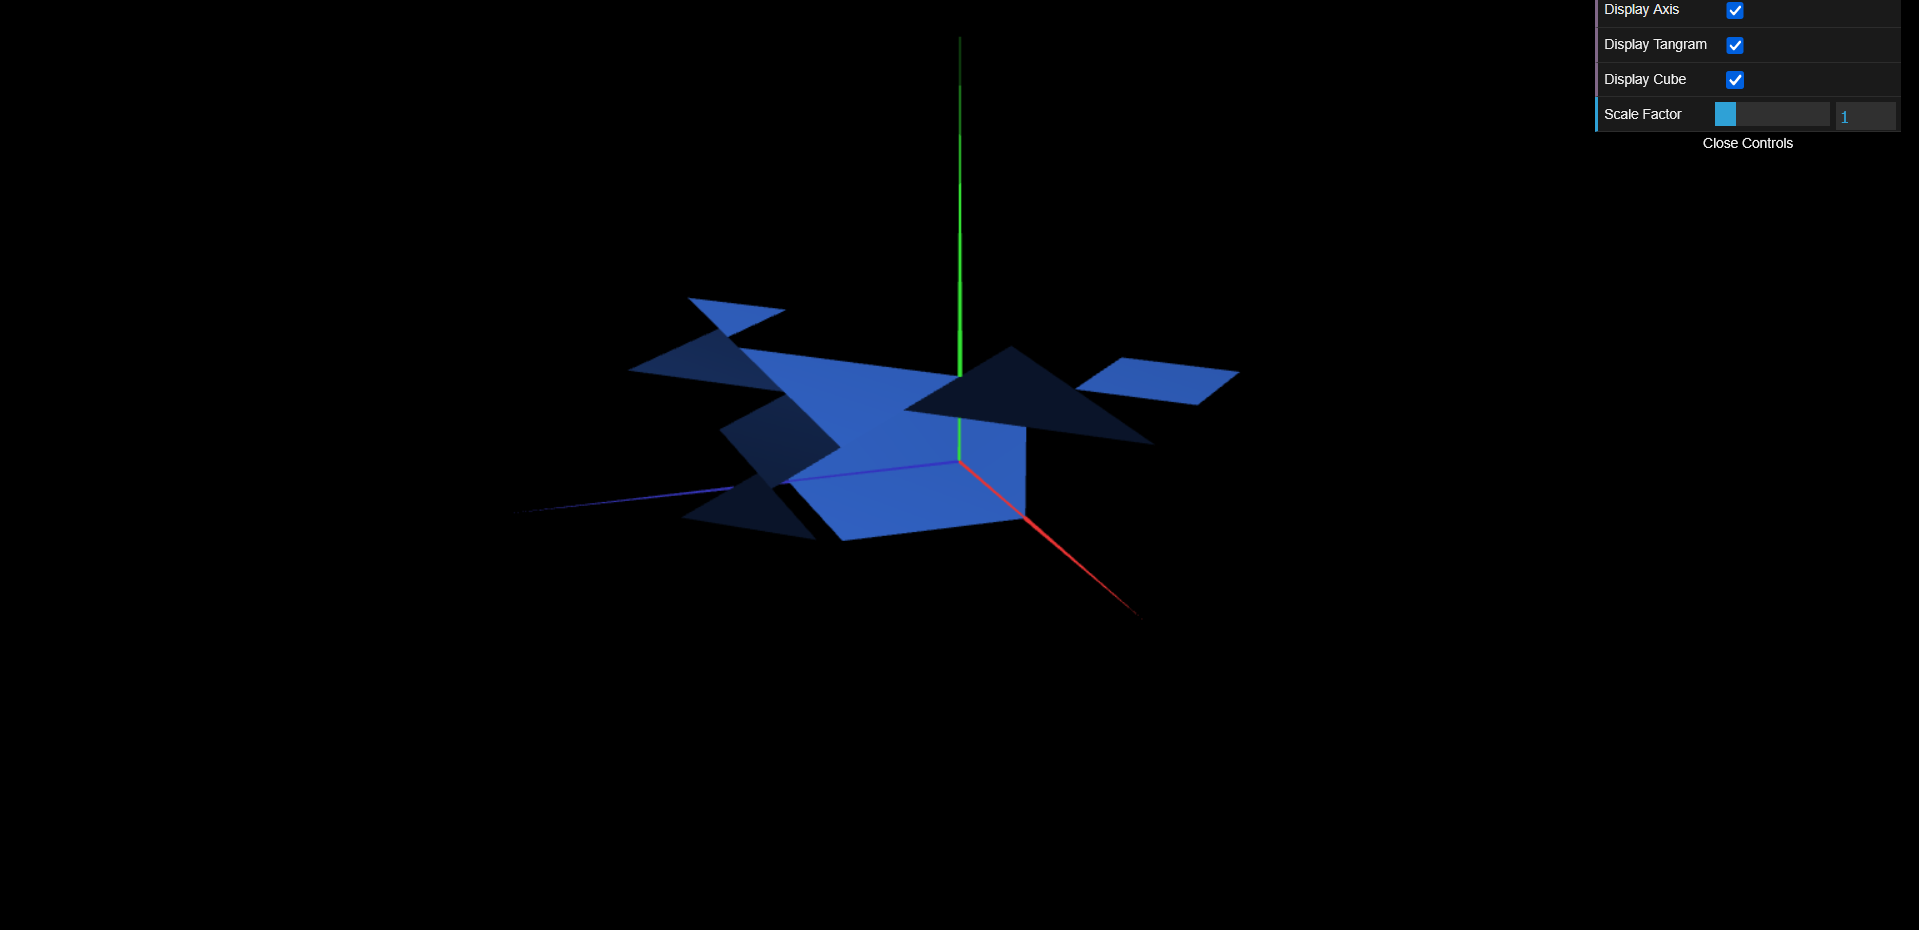
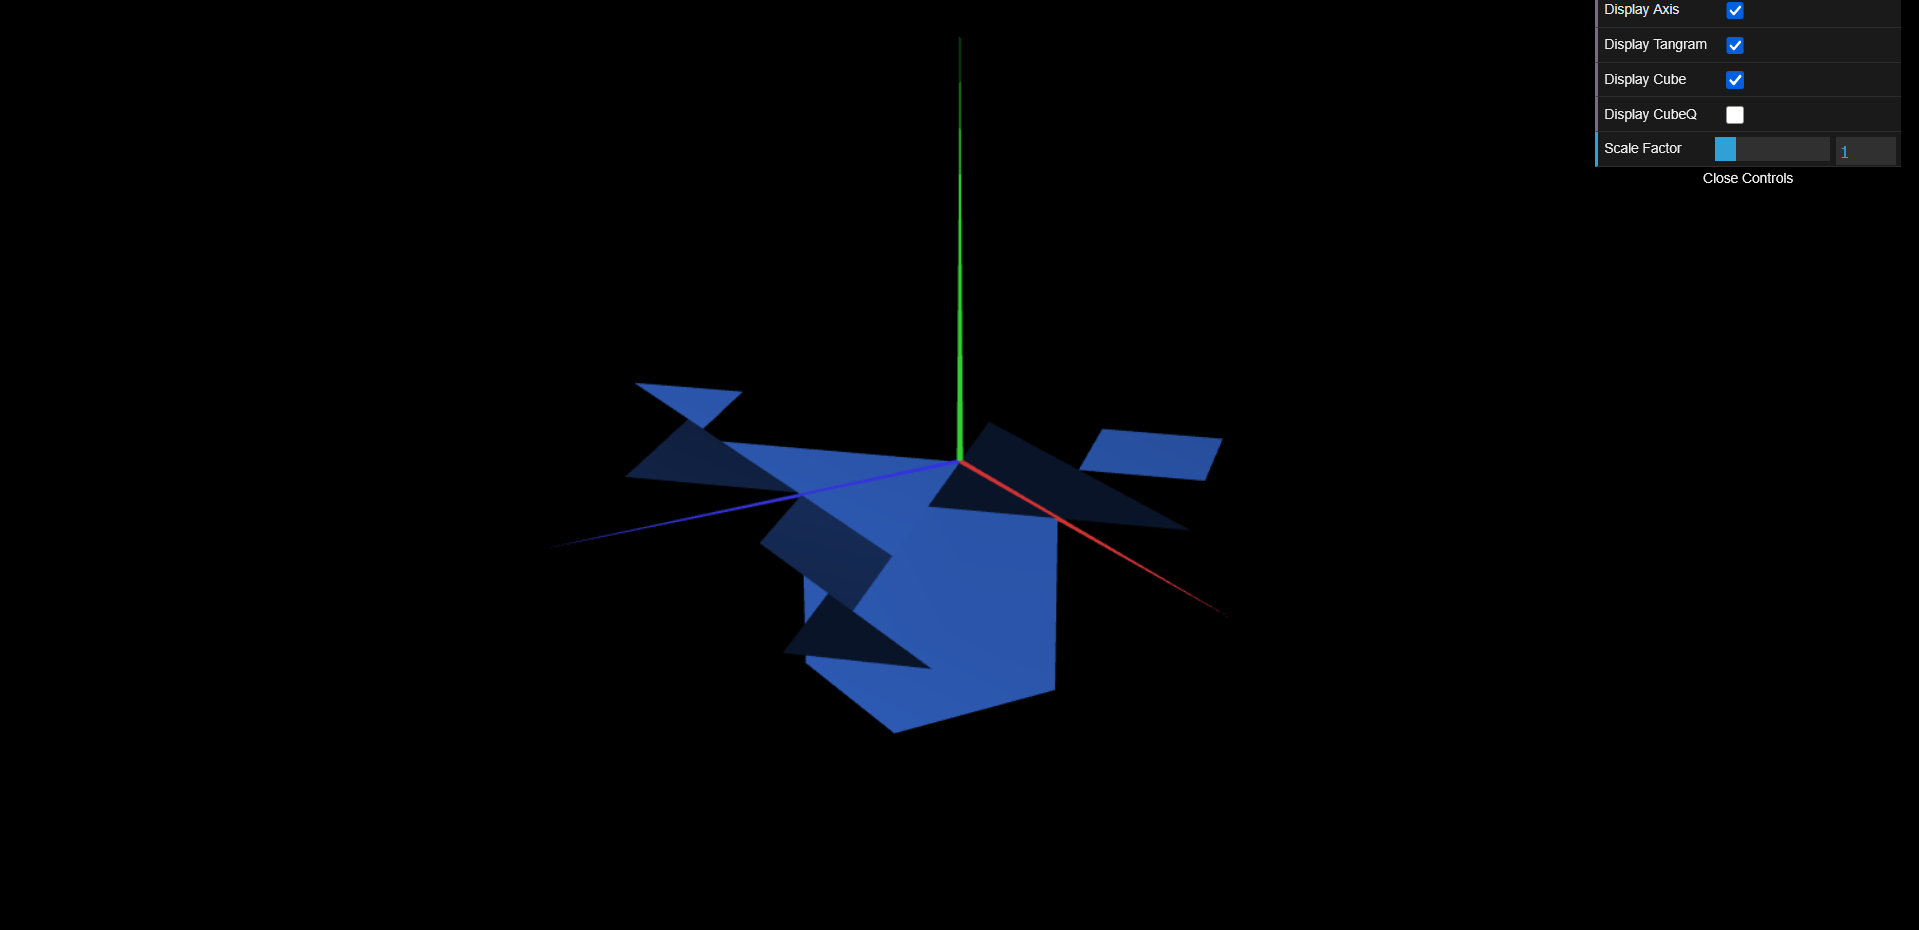
tp2-3

Changed region(s): [[0.3075, 0.3118, 0.6456, 0.8108], [0.8301, 0.0935, 1.0, 0.2183]]

diff --git a/tp2/MyUnitCubeQuad.js b/tp2/MyUnitCubeQuad.js
@@ -1,0 +1,58 @@
+import {CGFobject} from '../lib/CGF.js';
+import { MyQuad } from "./MyQuad.js";
+/**
+ * MyUnitCubeQuad
+ * @constructor
+ * @param scene - Reference to MyScene object
+ */
+export class MyUnitCubeQuad extends CGFobject {
+    constructor(scene) {
+        super(scene);
+        this.initBuffers();
+        this.quad1 = new MyQuad(this.scene);
+        this.quad2 = new MyQuad(this.scene);
+        this.quad3 = new MyQuad(this.scene);
+        this.quad4 = new MyQuad(this.scene);
+        this.quad5 = new MyQuad(this.scene);
+        this.quad6 = new MyQuad(this.scene);
+    }
+    
+    display() {
+        this.scene.pushMatrix();
+        this.scene.translate(0, 0, 0);
+        this.scene.rotate(Math.PI, 0, 1, 0);
+        this.quad1.display();
+        this.scene.popMatrix();
+
+        this.scene.pushMatrix();
+        this.scene.translate(0, 0, 2);
+        this.quad2.display();
+        this.scene.popMatrix();
+
+        this.scene.pushMatrix();
+        this.scene.translate(0, 1, 1);
+        this.scene.rotate(3*Math.PI/2, 1, 0, 0);
+        this.quad3.display();
+        this.scene.popMatrix();
+
+        this.scene.pushMatrix();
+        this.scene.translate(0, -1, 1);
+        this.scene.rotate(Math.PI/2, 1, 0, 0);
+        this.quad4.display();
+        this.scene.popMatrix();
+
+        this.scene.pushMatrix();
+        this.scene.translate(1, 0, 1);
+        this.scene.rotate(Math.PI/2, 0, 1, 0);
+        this.quad5.display();
+        this.scene.popMatrix();
+
+        this.scene.pushMatrix();
+        this.scene.translate(-1, 0, 1);
+        this.scene.rotate(3*Math.PI/2, 0, 1, 0);
+        this.quad6.display();
+        this.scene.popMatrix();
+
+    }
+}
+

diff --git a/tp2/MyScene.js b/tp2/MyScene.js
@@ -1,6 +1,6 @@
 import { CGFscene, CGFcamera, CGFaxis } from "../lib/CGF.js";
 import { MyTangram } from "./MyTangram.js";
-import { MyUnitCube } from "./MyUnitCube.js";
+import { MyUnitCubeQuad } from "./MyUnitCubeQuad.js";
 
 /**
  * MyScene
@@ -27,12 +27,12 @@ export class MyScene extends CGFscene {
     //Initialize scene objects
     this.axis = new CGFaxis(this);
     this.tangram = new MyTangram(this);
-    this.cube = new MyUnitCube(this);
+    this.cubeq = new MyUnitCubeQuad(this);
     //Objects connected to MyInterface
     this.displayAxis = true;
     this.scaleFactor = 1;
     this.displayTangram = true;
-    this.displayCube = true;
+    this.displayQuad = true;
   }
   initLights() {
     this.lights[0].setPosition(15, 2, 5, 1);
@@ -96,9 +96,14 @@ export class MyScene extends CGFscene {
 
     this.pushMatrix();
     this.rotate(-Math.PI / 2, 1, 0, 0);
-    this.translate(1, -1, 1);
+    this.translate(1, -1, 0);
     if (this.displayTangram) this.tangram.display();
-    if (this.displayCube) this.cube.display();
+    this.popMatrix();
+
+    this.pushMatrix();
+    this.rotate(-Math.PI / 2, 1, 0, 0);
+    this.translate(1, -1, -2);
+    if (this.displayQuad) this.cubeq.display(); 
     this.popMatrix();
     // ---- END Primitive drawing section
   }

diff --git a/tp2/MyQuad.js b/tp2/MyQuad.js
@@ -1,10 +1,10 @@
 import {CGFobject} from '../lib/CGF.js';
 /**
- * MyUnitCube
+ * MyQuad
  * @constructor
  * @param scene - Reference to MyScene object
  */
-export class MyUnitCube extends CGFobject {
+export class MyQuad extends CGFobject {
     constructor(scene) {
         super(scene);
         this.initBuffers();
@@ -12,30 +12,16 @@ export class MyUnitCube extends CGFobject {
     
     initBuffers() {
         this.vertices = [
-            -1, 1, -2,	//0
-            -1, -1, -2,	//1
-            1, 1, -2,	//2
-            1, -1, -2,	//3
-            -1, 1, 0,	//4
-            -1, -1, 0,	//5
-            1, 1, 0,	//6
-            1, -1, 0,	//7
+            -1, 1, 0,	//0
+            -1, -1, 0,	//1
+            1, 1, 0,	//2
+            1, -1, 0,	//3
         ];
 
         //Counter-clockwise reference of vertices
         this.indices = [
             0, 1, 2,
-            1, 3, 2,
-            4, 6, 5,
-            5, 6, 7,
-            6, 2, 7,
-            3, 7, 2,
-            4, 0, 6,
-            2, 6, 0,
-            5, 1, 4,
-            0, 4, 1,
-            7, 3, 5,
-            1, 5, 3
+            1, 3, 2
         ];
 
         //The defined indices (and corresponding vertices)

diff --git a/tp2/MyInterface.js b/tp2/MyInterface.js
@@ -20,7 +20,7 @@ export class MyInterface extends CGFinterface {
         //Checkbox element in GUI
         this.gui.add(this.scene, 'displayAxis').name('Display Axis');
         this.gui.add(this.scene, 'displayTangram').name('Display Tangram');
-        this.gui.add(this.scene, 'displayCube').name('Display Cube');
+        this.gui.add(this.scene, 'displayQuad').name('Display CubeQ');
 
         //Slider element in GUI
         this.gui.add(this.scene, 'scaleFactor', 0.1, 5).name('Scale Factor');
